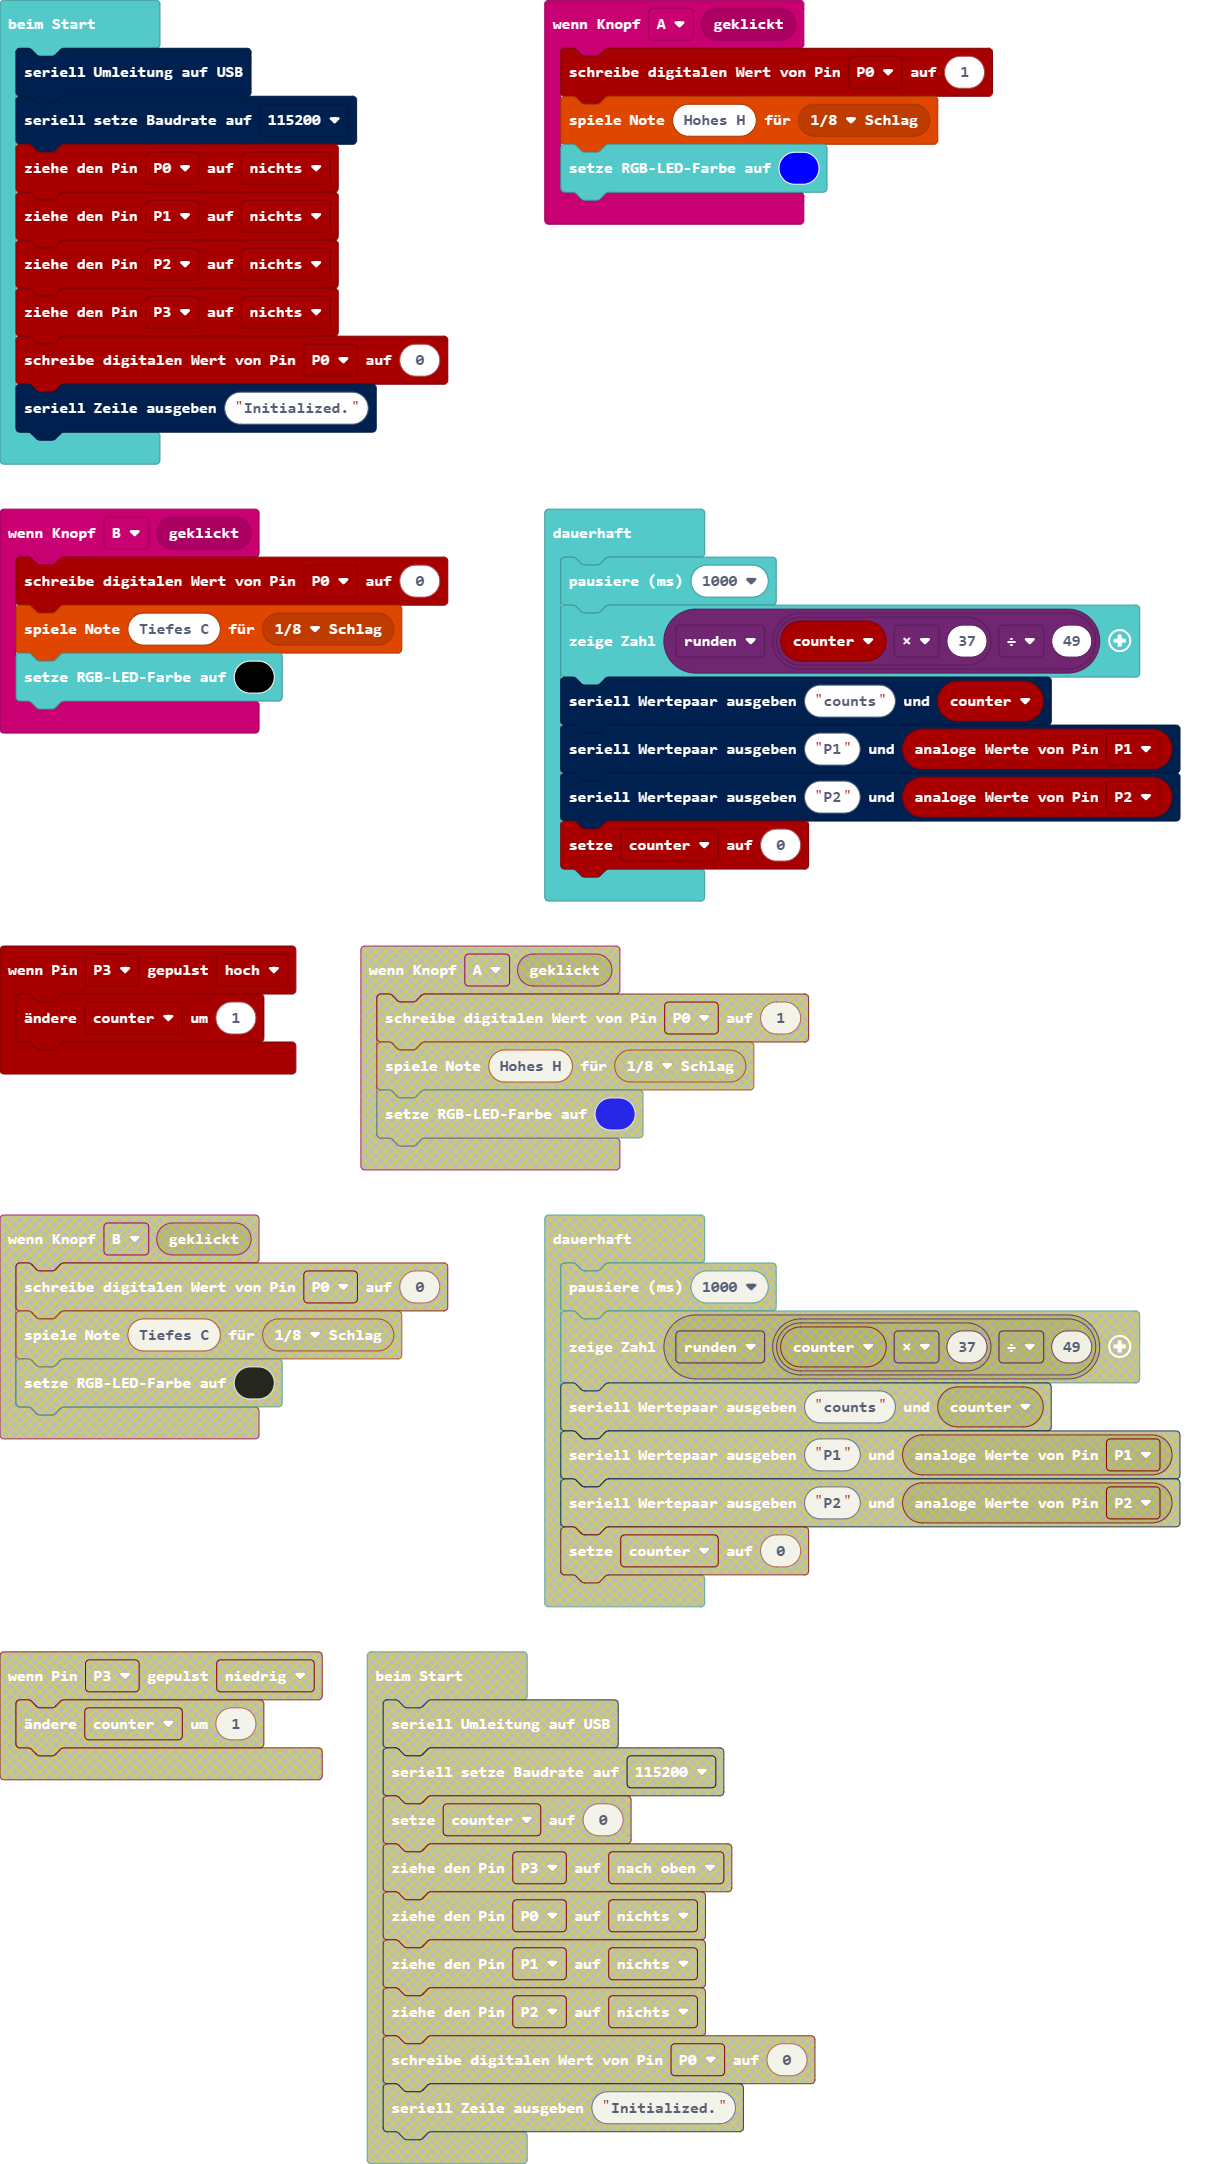
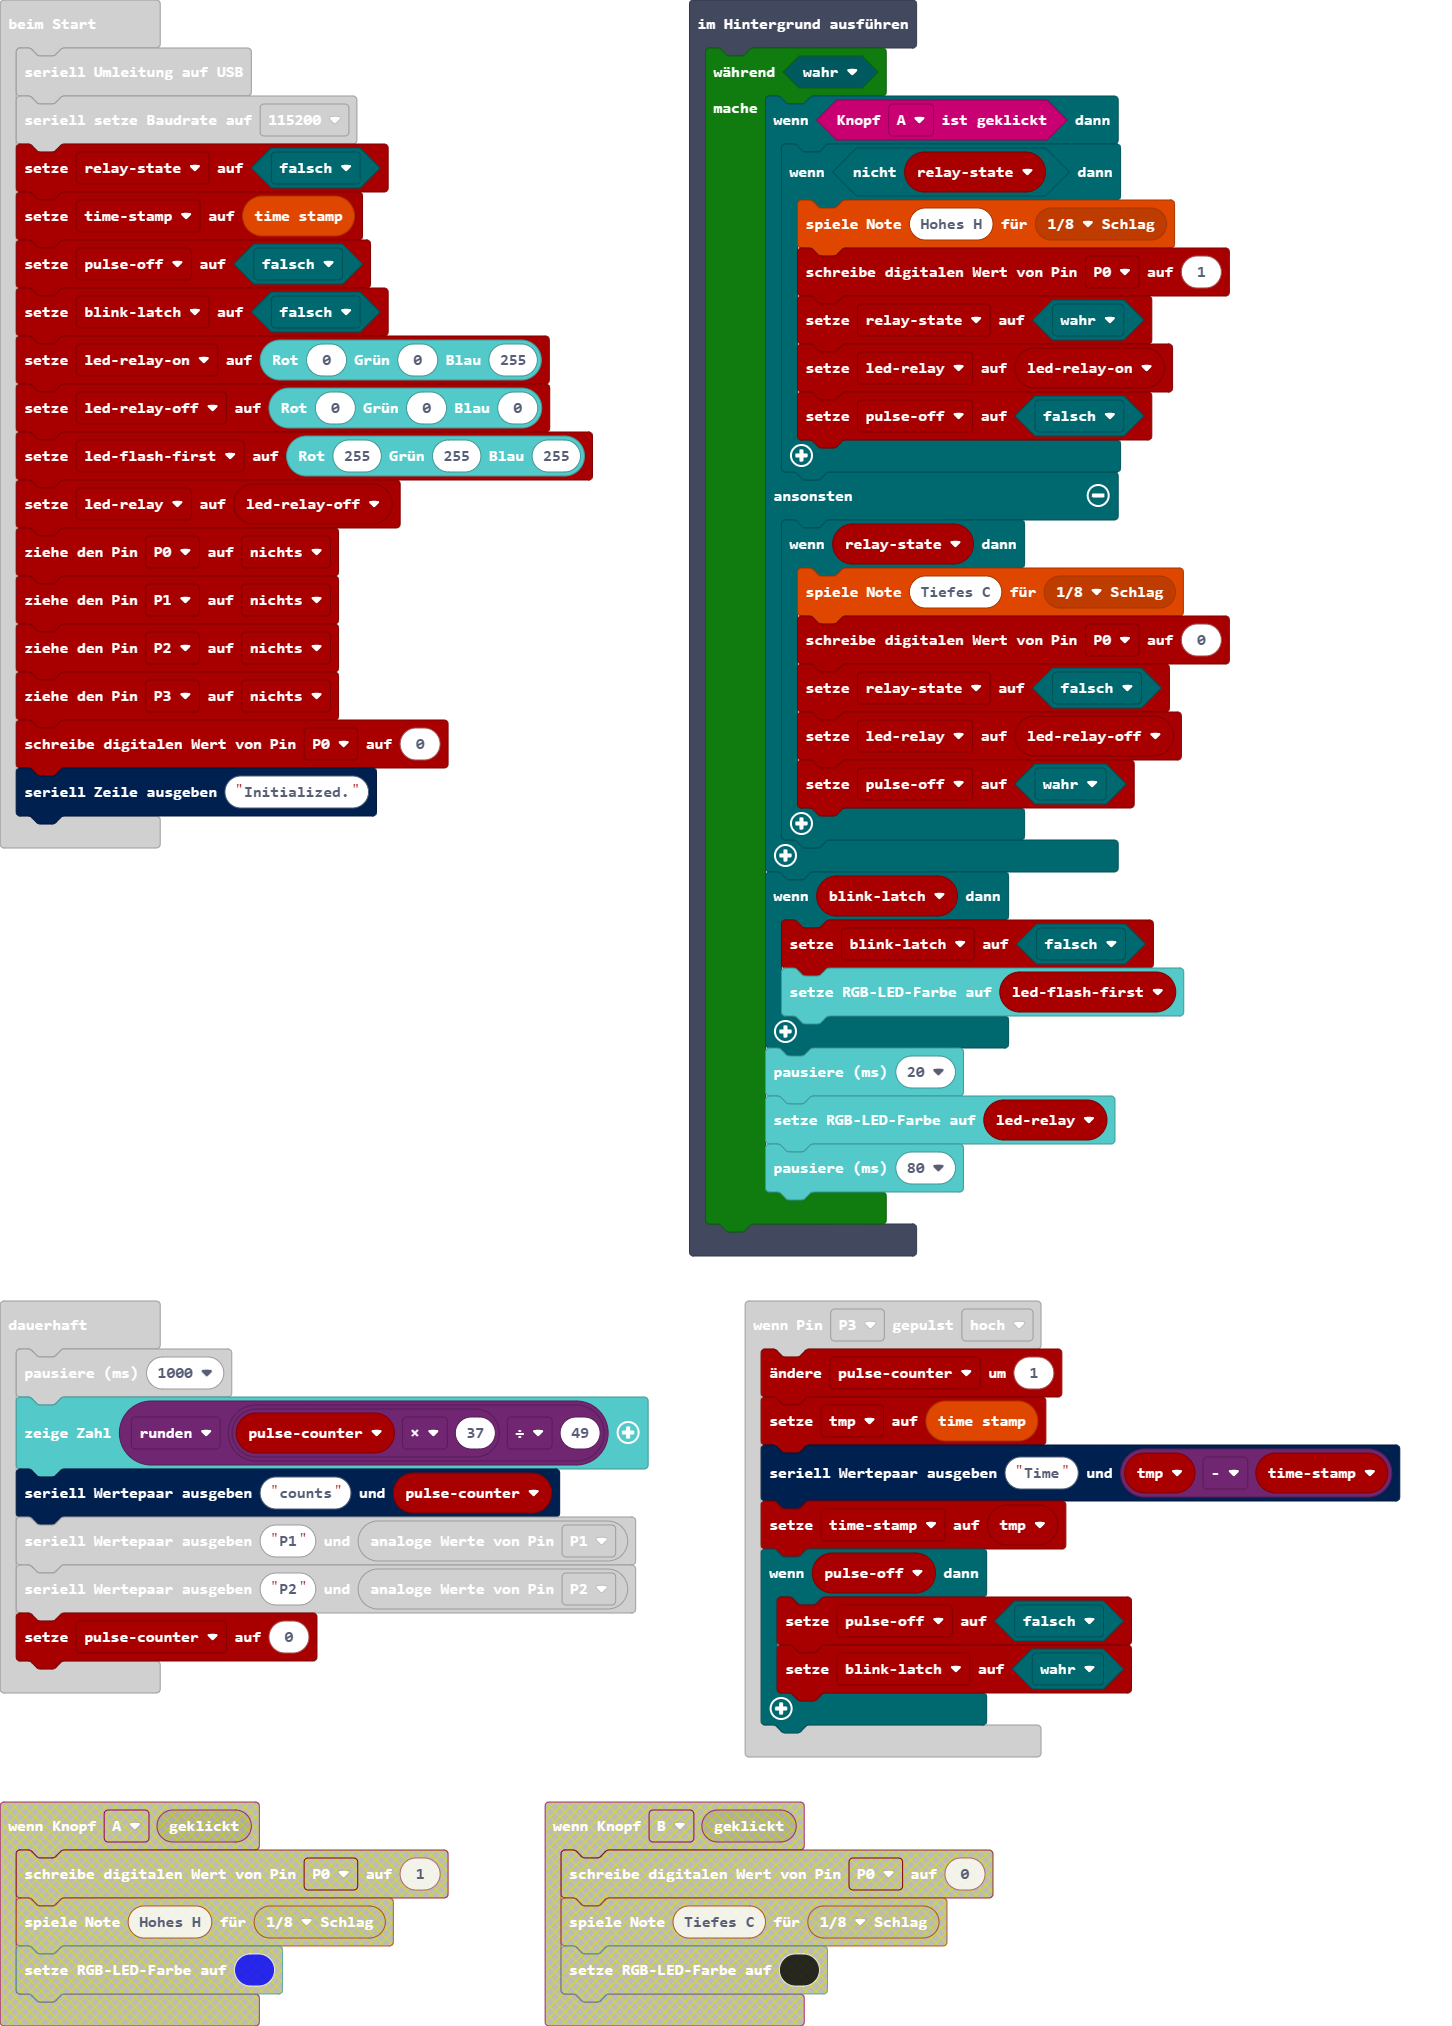
First pulse flash after relay off

diff --git a/main.ts b/main.ts
@@ -1,19 +1,28 @@
-input.onButtonEvent(Button.A, input.buttonEventClick(), function () {
-    pins.digitalWritePin(DigitalPin.P0, 1)
-    music.playTone(988, music.beat(BeatFraction.Eighth))
-    basic.setLedColor(0x0000ff)
-})
 pins.onPulsed(DigitalPin.P3, PulseValue.High, function () {
-    counter += 1
+    pulsecounter += 1
+    tmp = diverseTools.timeStamp()
+    serial.writeValue("Time", tmp - timestamp)
+    timestamp = tmp
+    if (pulseoff) {
+        pulseoff = false
+        blinklatch = true
+    }
 })
-input.onButtonEvent(Button.B, input.buttonEventClick(), function () {
-    pins.digitalWritePin(DigitalPin.P0, 0)
-    music.playTone(131, music.beat(BeatFraction.Eighth))
-    basic.setLedColor(0x000000)
-})
-let counter = 0
+let tmp = 0
+let pulsecounter = 0
+let blinklatch = false
+let pulseoff = false
+let timestamp = 0
 serial.redirectToUSB()
 serial.setBaudRate(BaudRate.BaudRate115200)
+let relaystate = false
+timestamp = diverseTools.timeStamp()
+pulseoff = false
+blinklatch = false
+let ledrelayon = basic.rgb(0, 0, 255)
+let ledrelayoff = basic.rgb(0, 0, 0)
+let ledflashfirst = basic.rgb(255, 255, 255)
+let ledrelay = ledrelayoff
 pins.setPull(DigitalPin.P0, PinPullMode.PullNone)
 pins.setPull(DigitalPin.P1, PinPullMode.PullNone)
 pins.setPull(DigitalPin.P2, PinPullMode.PullNone)
@@ -22,9 +31,37 @@ pins.digitalWritePin(DigitalPin.P0, 0)
 serial.writeLine("Initialized.")
 basic.forever(function () {
     basic.pause(1000)
-    basic.showNumber(Math.round(counter * 37 / 49))
-    serial.writeValue("counts", counter)
+    basic.showNumber(Math.round(pulsecounter * 37 / 49))
+    serial.writeValue("counts", pulsecounter)
     serial.writeValue("P1", pins.analogReadPin(AnalogPin.P1))
     serial.writeValue("P2", pins.analogReadPin(AnalogPin.P2))
-    counter = 0
+    pulsecounter = 0
+})
+control.inBackground(function () {
+    while (true) {
+        if (input.buttonIsPressed(Button.A)) {
+            if (!(relaystate)) {
+                music.playTone(988, music.beat(BeatFraction.Eighth))
+                pins.digitalWritePin(DigitalPin.P0, 1)
+                relaystate = true
+                ledrelay = ledrelayon
+                pulseoff = false
+            }
+        } else {
+            if (relaystate) {
+                music.playTone(131, music.beat(BeatFraction.Eighth))
+                pins.digitalWritePin(DigitalPin.P0, 0)
+                relaystate = false
+                ledrelay = ledrelayoff
+                pulseoff = true
+            }
+        }
+        if (blinklatch) {
+            blinklatch = false
+            basic.setLedColor(ledflashfirst)
+        }
+        basic.pause(20)
+        basic.setLedColor(ledrelay)
+        basic.pause(80)
+    }
 })
